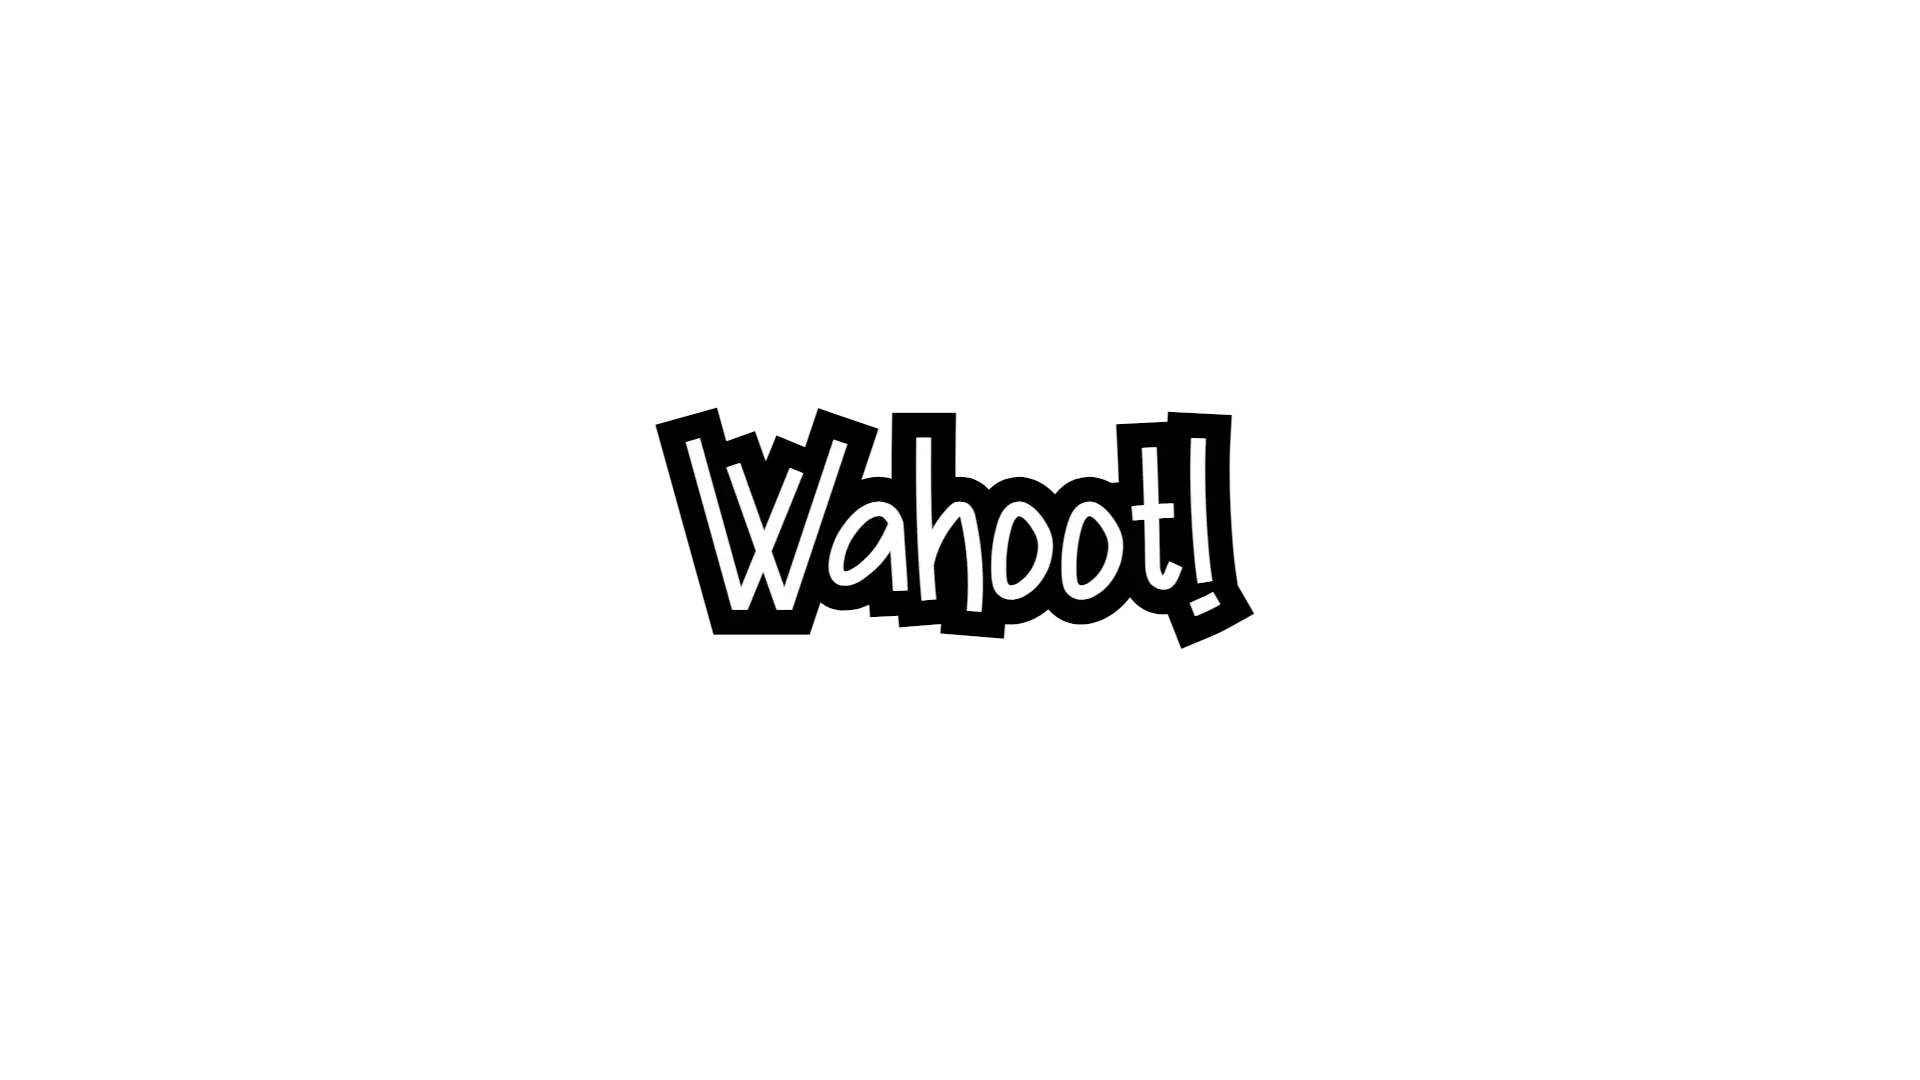
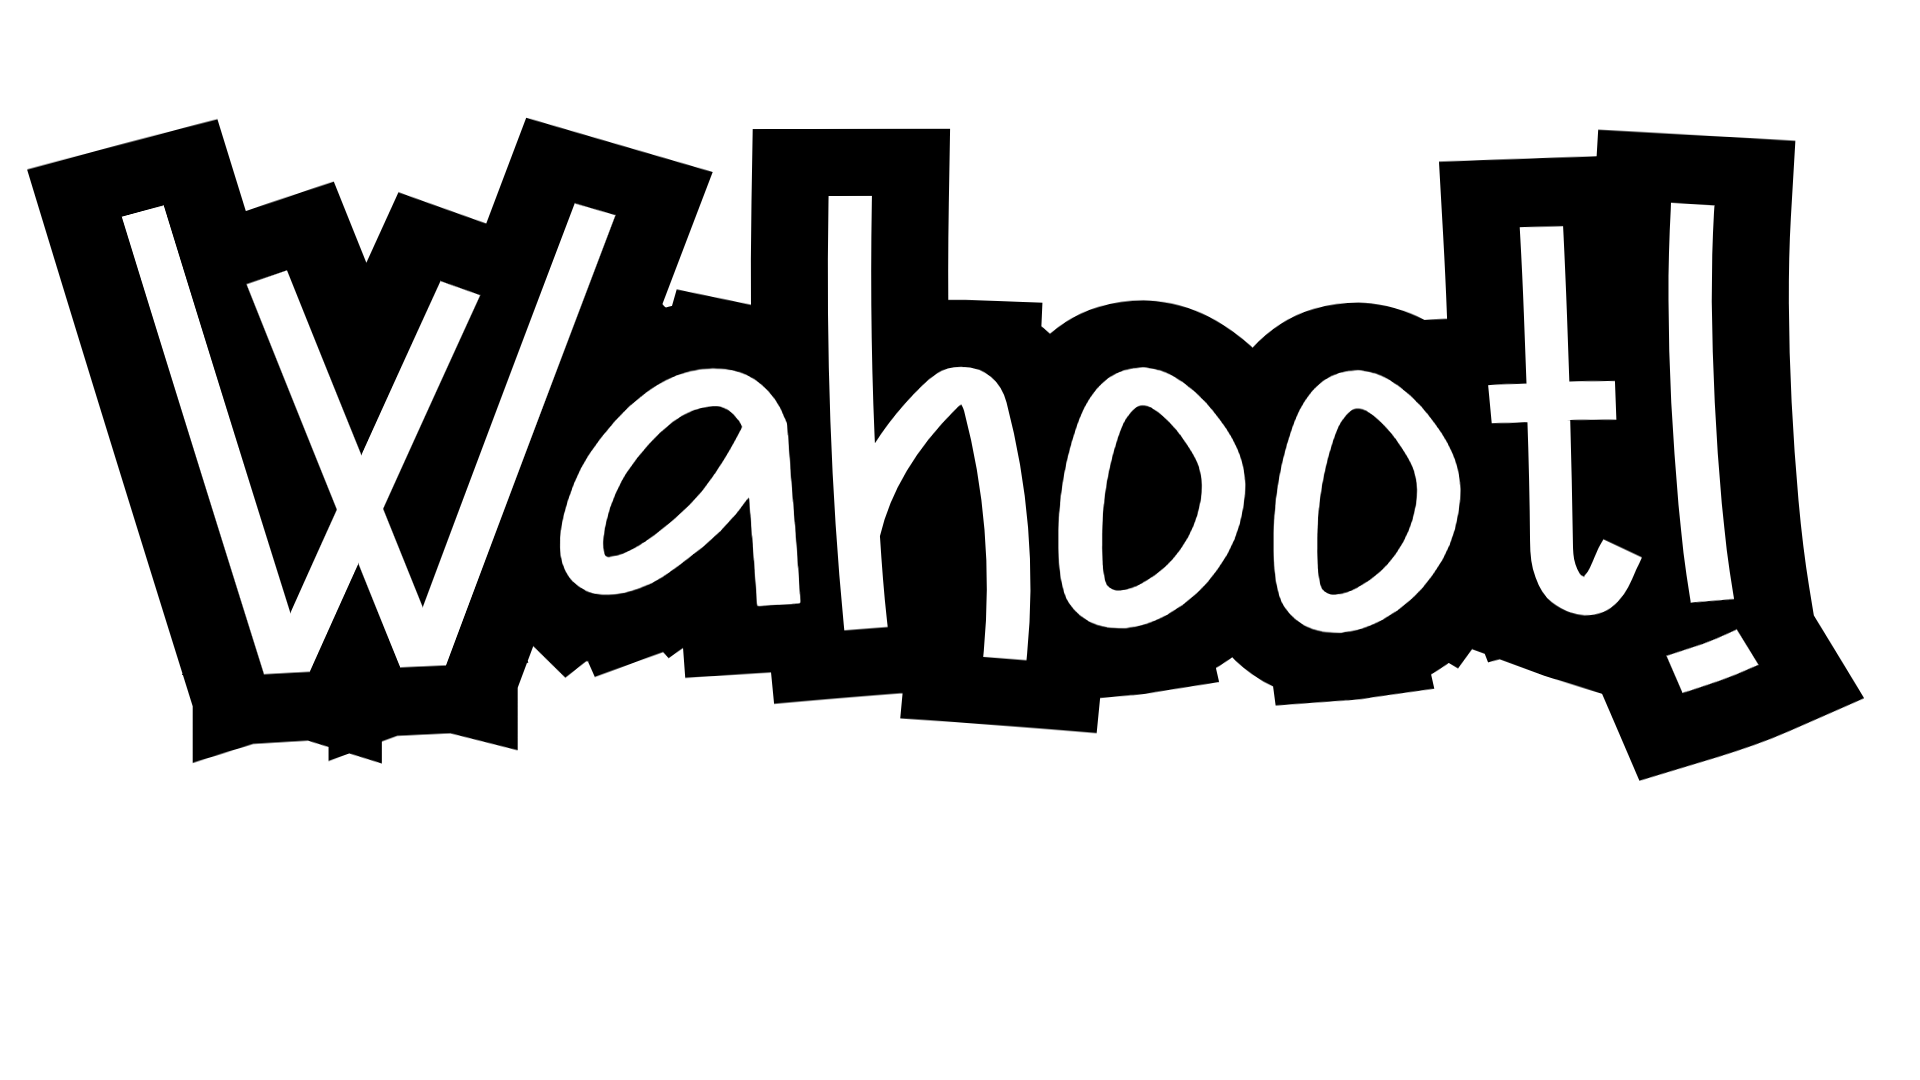
commit for testing Netlify

diff --git a/pages/pin.vue b/pages/pin.vue
@@ -6,7 +6,7 @@
     <img src="/assets/img/wahoot.webp" alt="Wahoot logo" id="wahoot_logo" />
     <div id="input" class="center" ref="input">
         <styledinput ref="gamePinInput"placeholder="Game pin" @keyup.enter="checkPin" v-model="gamePin" v-if="isPinInput" disabled />
-        <styledinput ref="nicknameInput" placeholder="Nickname" v-model="nickname" id="nicknameInput"v-else/>
+        <styledinput ref="nicknameInput" placeholder="Nickname" v-model="nickname" @keyup.enter="submitNickname" id="nicknameInput"v-else/>
         <styledbtn @click="checkPin" ref="gamePinSubmitBtn"v-if="isPinInput" />
         <div div v-else>
           <styledsmallbtn @click="generateNickname" ref="nicknameGenerateBtn" id="nicknameGenerateBtn" style="opacity: 0;" disabled/>
@@ -18,8 +18,8 @@
         <span v-html="notification.message"></span>
       </div>
     </div>
-    <p style="color: #fff; text-align: left; position: absolute; bottom: -0.5%; cursor: pointer;" @click="verPopup = !verPopup">ver {{ ver }} </p>
-    <popup v-show="verPopup" @closePopup="verPopup = !verPopup" :html="releaseNote" />
+    <p style="color: #fff; text-align: left; position: absolute; bottom: -0.5%; cursor: pointer;user-select: none;" @click="verPopup = !verPopup">{{ ver }} </p>
+    <rnpopup v-show="verPopup" @closePopup="verPopup = !verPopup"/>
     <settingbtn :style="{backgroundColor:acc2Color}"/>
   </div>
 </template>
@@ -27,10 +27,10 @@
 <script setup>
 import { Client } from '~/assets/src/kahoot/kahoot';
 import { ref, onMounted, computed, nextTick } from 'vue';
-import { useColorStore } from '~/stores/pageColor';
+
 const { base, sub, acc1, acc2, setColor, changeColorToDefault} = useColorStore();
 const client = new Client();
-const ver = ref('0.0.21');
+const ver = ref('Indev 20240802');
 const notifications = ref([
   { message: "<h1>test</h1>" },
   { message: "<p>error?</p>" }
@@ -48,16 +48,18 @@ const baseColor = ref(base);
 const subColor = ref(sub);
 const acc2Color = ref(acc2);
 
-const releaseNote = computed(() => {
-  return `<h2 style="text-align:center;border-bottom:2px solid #898989">Release Note ${ver.value}</h2><ul><li>dk</li></ul>`;
-});
-
 onMounted(() => {
   gamePinInput.value.styledInput.disabled = false;
   gamePinInput.value.styledInput.focus();
   console.log("loaded");
+  if (localStorage.getItem("clientVersion") == undefined) {
+    localStorage.setItem("clientVersion", ver.value);
+    verPopup.value = true;
+  } else if (localStorage.getItem("clientVersion") != ver.value) {
+    verPopup.value = true;
+    localStorage.setItem("clientVersion", ver.value);
+  }
 });
-
 const checkPin = async () => {
     if (gamePin.value.startsWith("/test")) {
       transformInput();
@@ -72,7 +74,6 @@ const checkPin = async () => {
       }
     }
 };
-
 const transformInput = async () => {
   gamePinSubmitBtn.value.styledBtn.disabled = false;
   gamePinInput.value.styledInput.classList.add("shrink");
@@ -104,11 +105,7 @@ const transformInput = async () => {
       });
   });
 };
-
-const delay = (time) => {
-  return new Promise((resolve) => setTimeout(resolve, time));
-};
-
+const delay = (time) => {return new Promise((resolve) => setTimeout(resolve, time));};
 const generateNickname = async() => {
   const nickNameResponse = await ((await (fetch("https://apis.kahoot.it/namerator"))).json()) ;
   nickname.value = nickNameResponse.name;
@@ -150,8 +147,8 @@ body {
   transform: translate(-50%, -50%);
   object-fit: cover;
   z-index: -1;
-  height: 75vmin;
-  width: 75vmin;
+  height: 28.125vmin;
+  width: 50vmin;
   user-select: none;
   animation: showLogo 2s linear;
   
@@ -185,31 +182,16 @@ body {
   position: absolute;
   left: 72.5%;
 }
-
-.fadein {
-  animation: fadeIn 1s linear;
-}
 .shrink {
   animation: shrink 1s ease-in-out;
 }
-
 .expand {
   animation: expand 1s ease-in-out;
 }
 .sb_expand {
   animation: sb_expand 1s ease-in-out;
 }
-@keyframes showInputArea {
-  0% {
-    opacity: 0;
-  }
-  10% {
-    opacity: 0;
-  }
-  100% {
-    opacity: 1;
-  }
-}
+@keyframes showInputArea {0% {opacity: 0;}10% {opacity: 0;}100% {opacity: 1;}}
 @keyframes expand {
   0% {
     width: 0%;
@@ -250,24 +232,5 @@ body {
     opacity: 0;
   }
 }
-@keyframes showLogo {
-  0% {
-    opacity: 0;
-  }
-  10% {
-    opacity: 0;
-  }
-  100% {
-    opacity: 1;
-  }
-}
-
-@keyframes fadeIn {
-  0% {
-    opacity: 0;
-  }
-  100% {
-    opacity: 1;
-  }
-}
+@keyframes showLogo {0% {opacity: 0;}10% {opacity: 0;}100% {opacity: 1;}}
 </style>

diff --git a/pages/version.vue b/pages/version.vue
@@ -1,0 +1,93 @@
+<template>
+    <p>{{ page }}/{{ totalPage }}</p>
+    <div id="textWrapper" ref="textWrapper">
+        <ReleasenoteNewest class="text" v-show="page == 1"/>
+    </div>
+    <div ref="back" id="backNote" @click="pageBack" v-show="page != 1" tabindex="0"/>
+    <div ref="next" id="nextNote" @click="nextPage" v-show="page != totalPage" tabindex="0"/>
+</template>
+
+<script setup>
+import { ref } from 'vue';
+
+const page = ref(1);
+const totalPage = ref(1);
+const textWrapper = ref(null);
+
+const delay = (time) => {
+    return new Promise((resolve) => setTimeout(resolve, time));
+};
+
+const nextPage = async () => {
+    textWrapper.value.classList.add("ml");
+    await delay(500);
+    page.value++;
+    textWrapper.value.classList.remove("ml");
+};
+
+const pageBack = async () => {
+    textWrapper.value.classList.add("ml-back");
+    await delay(500);
+    page.value--;
+    textWrapper.value.classList.remove("ml-back");
+};
+</script>
+
+<style scoped>
+#textWrapper {
+    width: 80%;
+    height: 100%;
+    margin: 0 auto; 
+    background-color: #fff;
+}
+
+#backNote {
+    position: absolute;
+    top: 50%;
+    left: 5%;
+    transform: translate(-50%, -50%);
+    width: 4vmin;
+    height: 4vmin;
+    border: 1.5vmin solid;
+    border-color: transparent transparent #565656 #565656;
+    transform: rotate(45deg);
+}
+
+#nextNote {
+    position: absolute;
+    top: 50%;
+    right: 5%;
+    transform: translate(-50%, -50%);
+    width: 4vmin;
+    height: 4vmin;
+    border: 1.5vmin solid;
+    border-color: transparent transparent #565656 #565656;
+    transform: rotate(225deg);
+}
+
+.ml {
+    animation: moveleft 0.5s ease-in-out;
+}
+
+.ml-back {
+    animation: moveright 0.5s ease-in-out;
+}
+
+@keyframes moveleft {
+    0% {
+        transform: translateX(0);
+    }
+    100% {
+        transform: translateX(-150%);
+    }
+}
+
+@keyframes moveright {
+    0% {
+        transform: translateX(0);
+    }
+    100% {
+        transform: translateX(150%);
+    }
+}
+</style>

diff --git a/components/releasenote/newest.vue b/components/releasenote/newest.vue
@@ -1,0 +1,76 @@
+<template>
+    <div>
+        <h2 id="top">Release Note Indev 20240802</h2>
+        <h4 class="newTitle">New</h4>
+        <ul class="new-list">
+            <li><span>made a page loading animation.</span></li>
+            <li><span>made a animation to change from pin input to nickname input.</span></li>
+            <li><span>made /version page</span></li>
+        </ul>
+        <h4 class="updateTitle">Update/Fix</h4>
+        <ul class="update-list">
+            <li><span>Changed from option api to composition api.</span></li>
+            <li><span>Changed color theme.</span></li>
+        </ul>
+        <!--<h4 class="removedTitle">Removed</h4>-->
+    </div>
+</template>
+
+<style scoped>
+#top {
+    text-align: center;
+    border-bottom: 2px solid #898989;
+    font-size: 3vmin;
+}
+
+.newTitle {
+    text-align: left;
+    border-bottom: 2.5px solid #898989;
+    width: 6vmin;
+    font-size: 2.25vmin;
+    margin-bottom: -1vmin;
+    color: green;
+}
+
+.new-list {
+    text-align: left;
+    font-size: 1.75vmin;
+    list-style-type: '+  ';
+    color: green;
+    font-weight: bold;
+}
+
+.new-list li span {
+    font-weight: normal;
+}
+
+.updateTitle {
+    text-align: left;
+    border-bottom: 2.5px solid #898989;
+    width: 15vmin;
+    font-size: 2.25vmin;
+    margin-bottom: -1vmin;
+    color: darkviolet;
+}
+
+.update-list {
+    text-align: left;
+    font-size: 1.75vmin;
+    list-style-type: '⟳  ';
+    color: darkviolet;
+    font-weight: bold;
+}
+
+.update-list li span {
+    font-weight: normal;
+}
+
+.removedTitle {
+    text-align: left;
+    border-bottom: 2.5px solid #898989;
+    width: 12.5vmin;
+    font-size: 2.25vmin;
+    margin-bottom: -1vmin;
+    color: red;
+}
+</style>

diff --git a/pages/rt.vue b/pages/rt.vue
@@ -1,0 +1,16 @@
+<template>
+    <h2 id="top"style="text-align:center;border-bottom:2px solid #898989;font-size: 3vmin">Release Note ${ver.value}</h2>
+    <h4 style="text-align: left;border-bottom: 2.5px solid #898989;width: 16.5vmin;font-size: 2.25vmin;margin-bottom: -1vmin;color:green">New/</h4>
+    <ul style="text-align: left;font-size: 1.75vmin;list-style-type: '+  ';color:green;font-weight: bold;">
+        <li><span style="font-weight: normal;">made a page loading animation.</span></li>
+        <li><span style="font-weight: normal;">made a animation to change from pin input to nickname input.</span></li>
+    </ul>
+    <h4 style="text-align: left;border-bottom: 2.5px solid #898989;width: 15vmin;font-size: 2.25vmin;margin-bottom: -1vmin;color:darkviolet">Update/Fix</h4>
+    <ul style="text-align: left;font-size: 1.75vmin;list-style-type: '+  ';color:green;">
+        <li style="list-style-type:'⟳  ';color: darkviolet"><span>Changed from option api to composition api.</span></li>
+        <li style="list-style-type:'⟳  ';color: darkviolet"><span>Changed color theme.</span></li>
+    </ul>
+    <h4 style="text-align: left;border-bottom: 2.5px solid #898989;width: 15vmin;font-size: 2.25vmin;margin-bottom: -1vmin;color:red">Removed</h4>
+    
+
+</template>

diff --git a/pages/client.vue b/pages/client.vue
@@ -4,10 +4,6 @@
 </template>
 
 <script>
-definePageMeta({
-  middleware: ['auth'], // もしくは 'auth'
-  // middleware: 'auth',
-})
 import { Client } from '~/assets/src/kahoot/kahoot';
 const client = new Client();
 export default {
@@ -21,7 +17,7 @@ export default {
     },
     methods: {
         async join() {
-            client.join(parseInt(this.pin), `Wahoot!${Date.now()}`);
+            client.join(parseInt(this.pin), `\u200e`);
             client.on("joined", () => {
                 this.pin = `Joined ${this.pin}`;
             })

diff --git a/components/rnpopup.vue b/components/rnpopup.vue
@@ -1,7 +1,7 @@
 <template>
     <div id="popup">
         <div id="popup_close" type="button" @click="$emit('closePopup')"></div>
-        <div v-html="html"></div>
+        <ReleasenoteNewest/>
     </div>
 </template>
 
@@ -19,6 +19,7 @@
         border-radius: 5px;
         z-index: 3;
         text-align: left;
+        box-shadow: 3px 3px 5px 5px rgba(0, 0, 0, 0.5);
     }
     #popup_close:before {
         position: absolute;
@@ -32,8 +33,3 @@
     }
 </style>
 
-<script>
-export default {
-    props: ["html"]
-};
-</script>

diff --git a/components/settingbtn.vue b/components/settingbtn.vue
@@ -1,7 +1,7 @@
 <template>
     <button ref="settingBtn" @click="openSettings" class="settingBtn">
       <div class="imgContainer">
-        <img id="settingImg" src="/assets/img/settings.png" alt="Settings">
+        <img id="settingImg" src="/assets/img/settings.webp" alt="Settings">
       </div>
       Settings
     </button>
